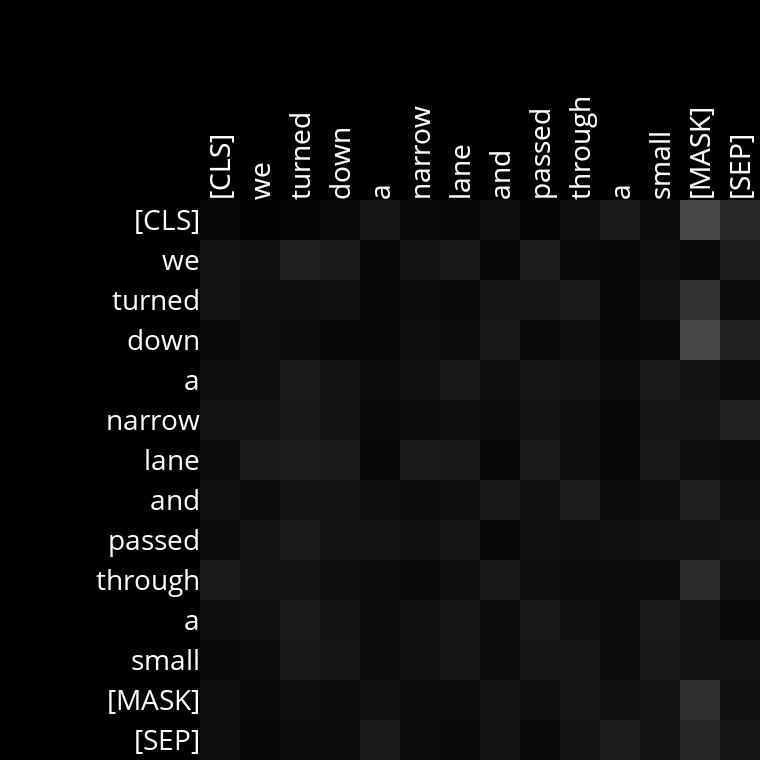
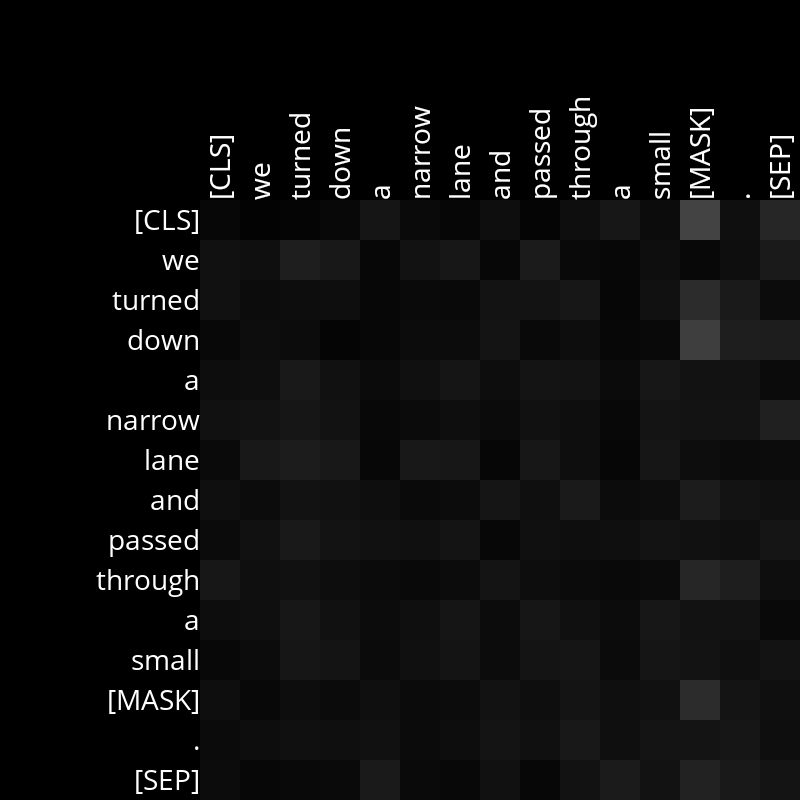
updates

diff --git a/mask.py b/mask.py
@@ -67,7 +67,6 @@ def get_color_for_attention_score(score: float) -> tuple:
     return (gray_value, gray_value, gray_value)
 
 
-
 def visualize_attentions(tokens, attentions):
     """
     Produce a graphical representation of self-attention scores.
@@ -78,33 +77,13 @@ def visualize_attentions(tokens, attentions):
     include both the layer number (starting count from 1) and head number
     (starting count from 1).
     """
-    # TODO: Update this function to produce diagrams for all layers and heads.
-
-    # generate_diagram(
-    #     1,
-    #     1,
-    #     tokens,
-    #     attentions[0][0][0]
-    # )
     num_layers = len(attentions)
-    num_heads = len(attentions[0][0][0])  # Number of attention heads in each layer
+    num_heads = attentions[0].shape[1]  # Number of attention heads in each layer
 
     for layer in range(num_layers):
         for head in range(num_heads):
             attention_scores = attentions[layer][0][head].numpy()
-            fig, ax = plt.subplots()
-            cax = ax.matshow(attention_scores, cmap='Greys', vmin=0, vmax=1)
-            fig.colorbar(cax)
-
-            ax.set_xticks(np.arange(len(tokens)))
-            ax.set_yticks(np.arange(len(tokens)))
-            ax.set_xticklabels(tokens)
-            ax.set_yticklabels(tokens)
-
-            plt.xticks(rotation=90)
-            ax.set_title(f'Layer {layer + 1}, Head {head + 1}')
-            plt.savefig(f'attention_layer_{layer + 1}_head_{head + 1}.png')
-            plt.close()
+            generate_diagram(layer + 1, head + 1, tokens, attention_scores)
 
 
 def generate_diagram(layer_number, head_number, tokens, attention_weights):
